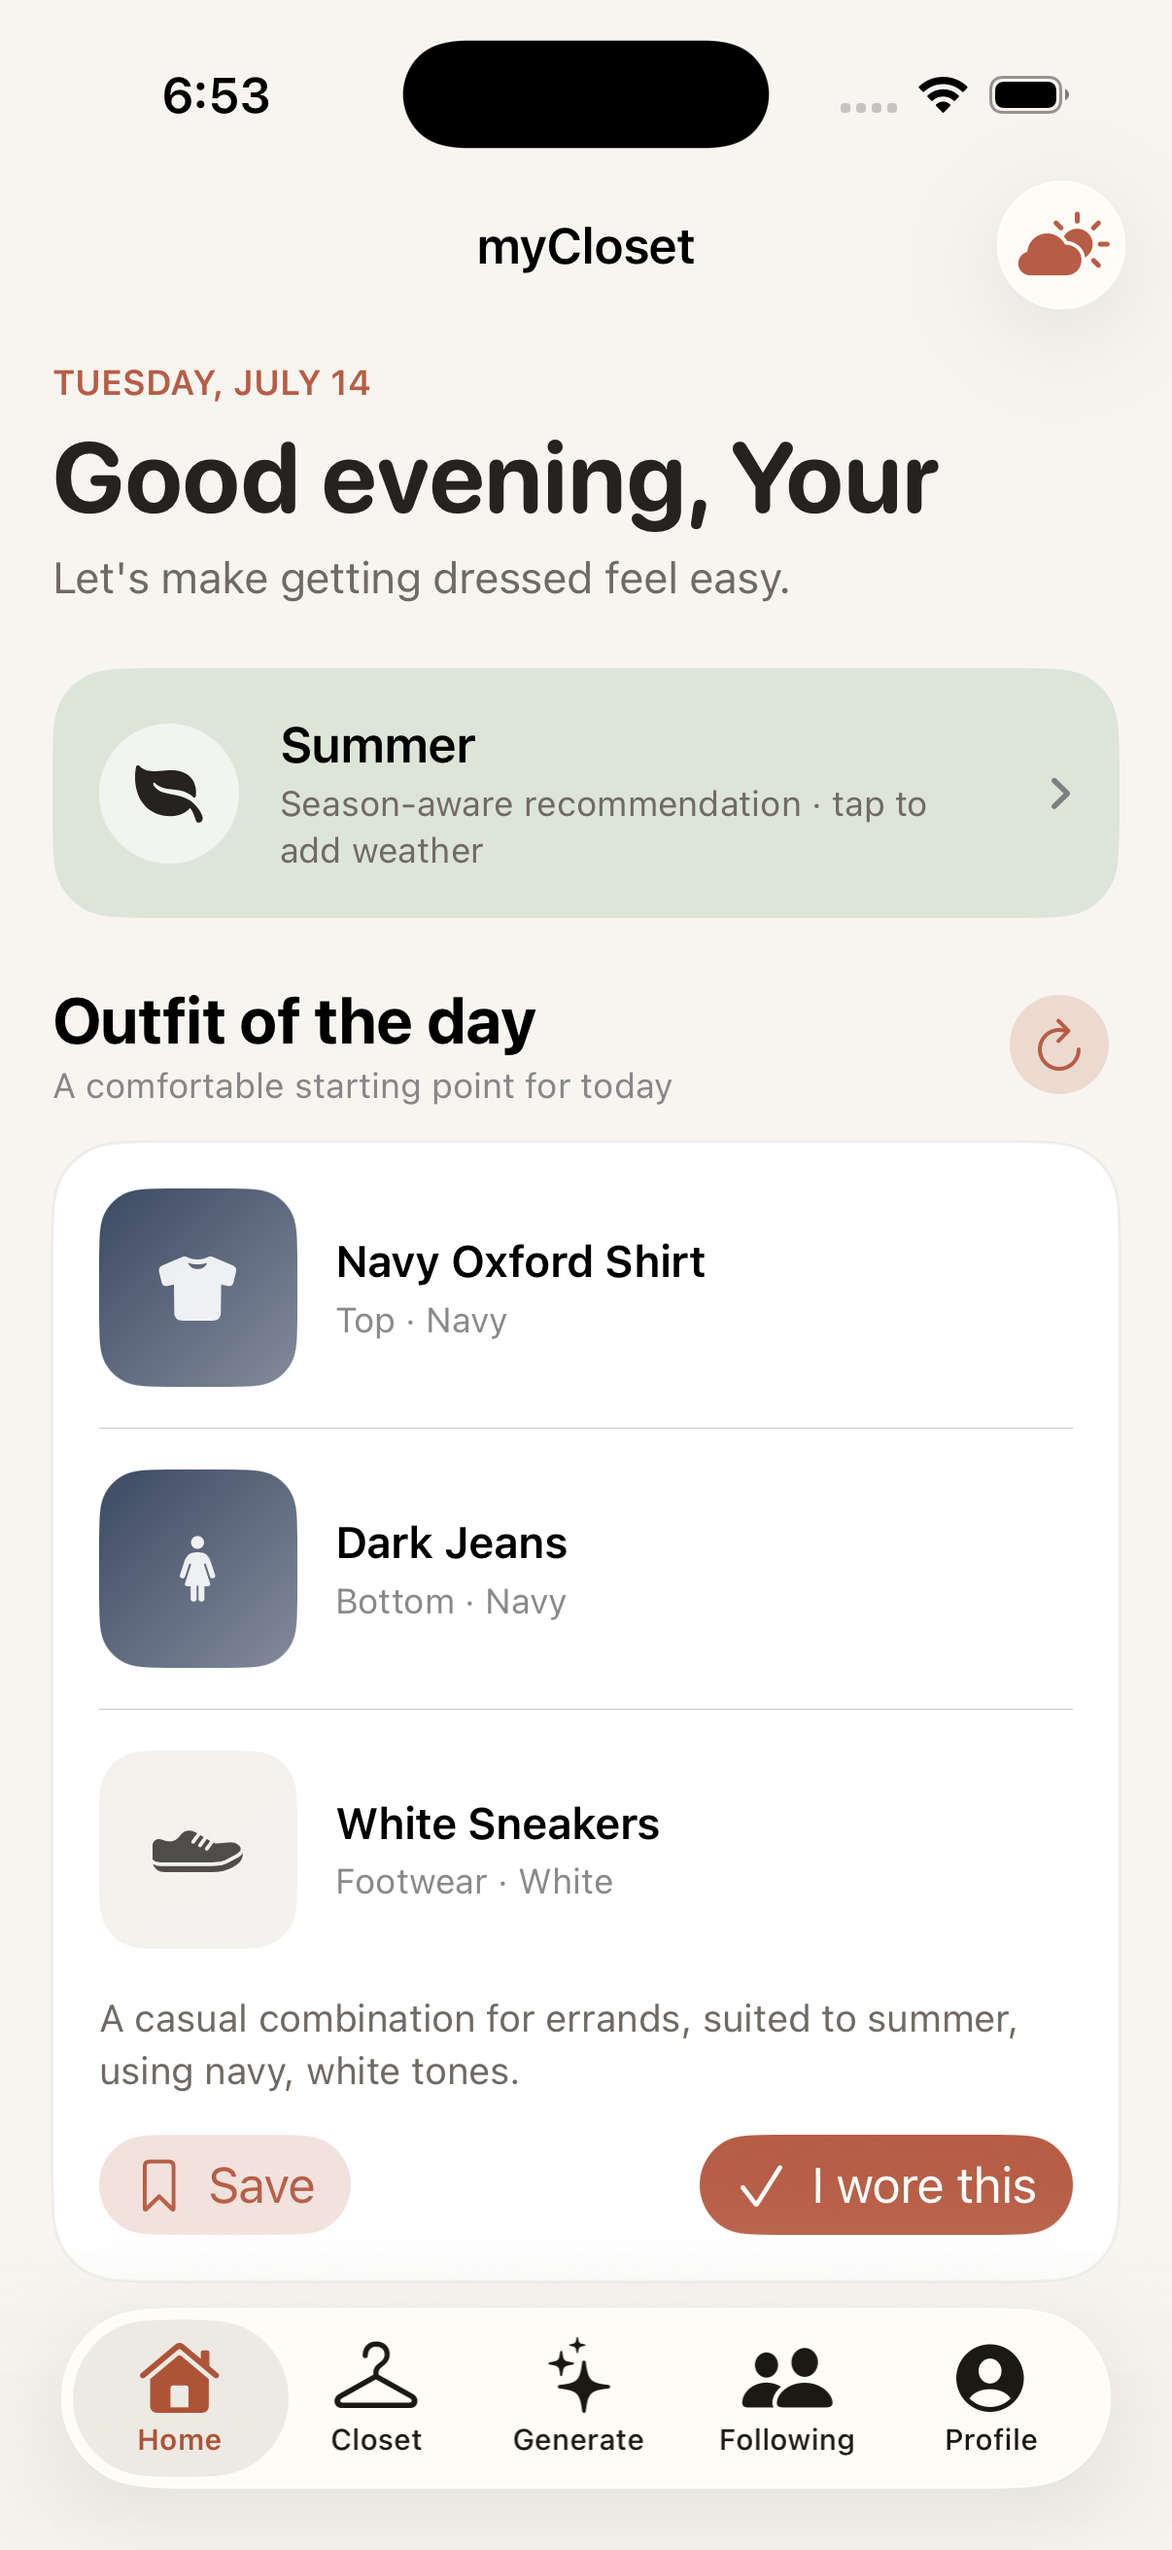
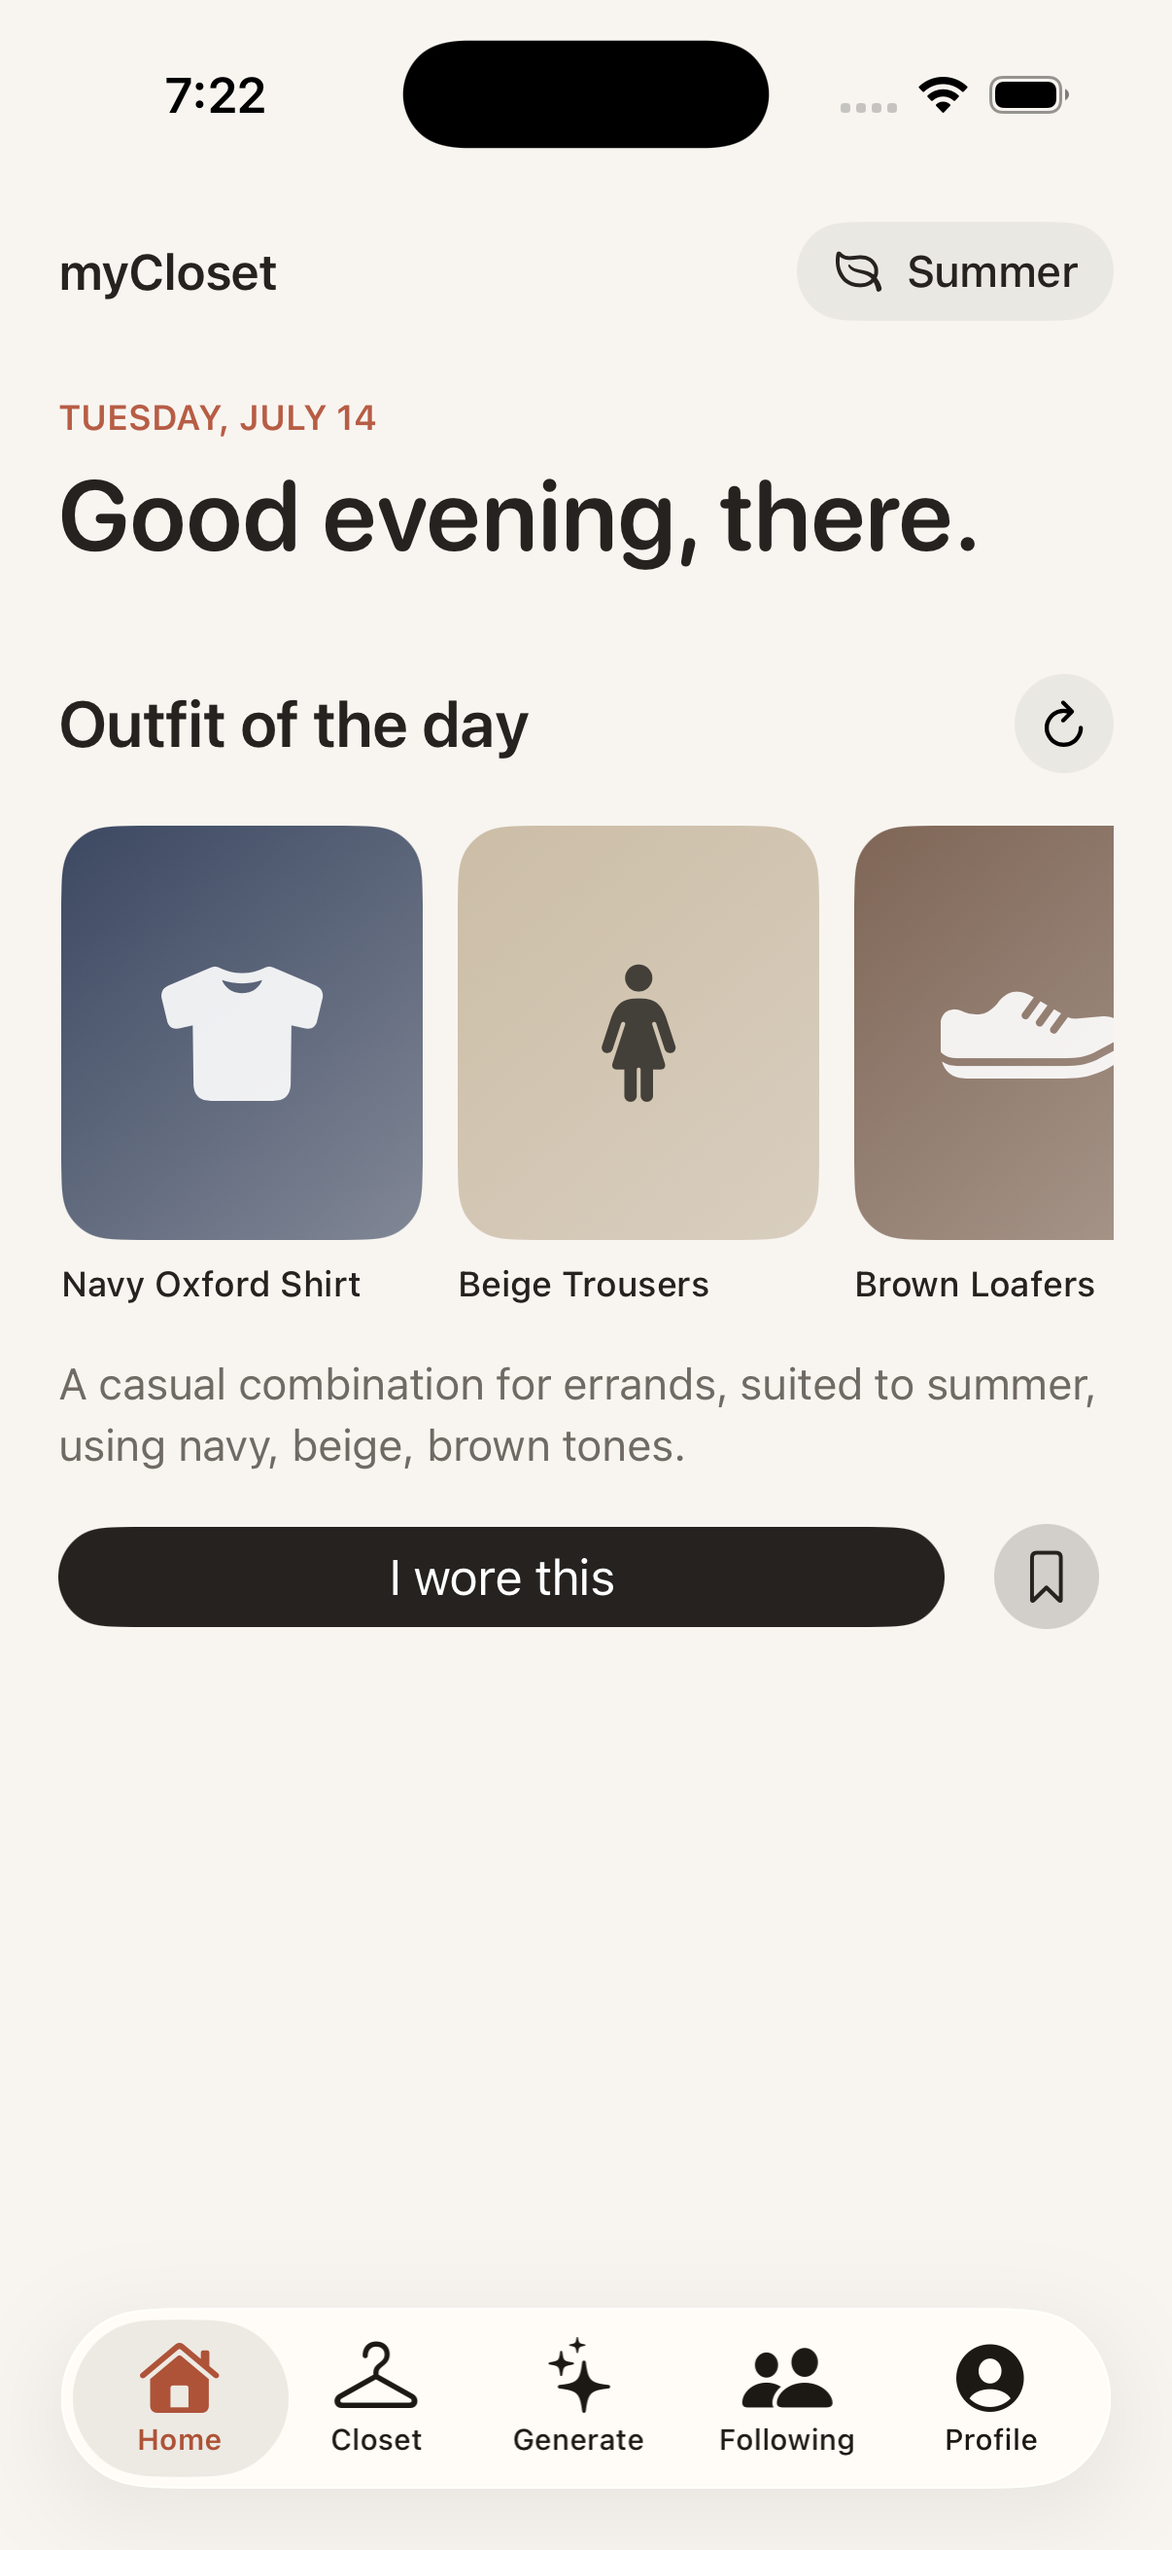
Simplify the Home experience

diff --git a/myCloset/HomeView.swift b/myCloset/HomeView.swift
@@ -8,28 +8,17 @@ struct HomeView: View {
 
     var body: some View {
         NavigationStack {
-            ScrollView(.vertical, showsIndicators: true) {
-                VStack(alignment: .leading, spacing: 22) {
-                    greeting
-                    weatherCard
+            ScrollView(.vertical, showsIndicators: false) {
+                VStack(alignment: .leading, spacing: 34) {
+                    header
                     dailySection
                 }
-                .padding(.horizontal, 18)
-                .padding(.bottom, 28)
+                .padding(.horizontal, 20)
+                .padding(.top, 14)
+                .padding(.bottom, 32)
             }
             .background(ClosetTheme.canvas.ignoresSafeArea())
-            .navigationTitle("myCloset")
-            .navigationBarTitleDisplayMode(.inline)
-            .toolbar {
-                ToolbarItem(placement: .topBarTrailing) {
-                    Button {
-                        showingWeather = true
-                    } label: {
-                        Image(systemName: "cloud.sun.fill")
-                    }
-                    .accessibilityLabel("Weather settings")
-                }
-            }
+            .toolbar(.hidden, for: .navigationBar)
             .sheet(isPresented: $showingWeather) {
                 WeatherSettingsView()
                     .presentationDetents([.medium, .large])
@@ -58,118 +47,144 @@ struct HomeView: View {
         }
     }
 
-    private var greeting: some View {
-        VStack(alignment: .leading, spacing: 5) {
-            Text(Date.now.formatted(.dateTime.weekday(.wide).month(.wide).day()))
-                .font(.caption.weight(.semibold))
-                .foregroundStyle(ClosetTheme.accent)
-                .textCase(.uppercase)
-            Text("Good \(dayPart), \(firstName)")
-                .font(.system(.largeTitle, design: .rounded, weight: .bold))
-                .foregroundStyle(ClosetTheme.ink)
-            Text("Let's make getting dressed feel easy.")
-                .font(.subheadline)
-                .foregroundStyle(ClosetTheme.secondaryInk)
-        }
-        .padding(.top, 8)
-    }
-
-    private var weatherCard: some View {
-        Button {
-            showingWeather = true
-        } label: {
-            HStack(spacing: 14) {
-                Image(systemName: weather.context.source == .seasonOnly ? "leaf.fill" : "cloud.sun.fill")
-                    .font(.title2)
+    private var header: some View {
+        VStack(alignment: .leading, spacing: 26) {
+            HStack {
+                Text("myCloset")
+                    .font(.headline.weight(.semibold))
                     .foregroundStyle(ClosetTheme.ink)
-                    .frame(width: 48, height: 48)
-                    .background(.white.opacity(0.58), in: Circle())
-                VStack(alignment: .leading, spacing: 3) {
-                    Text(weather.context.displayTemperature ?? weather.context.season.title)
-                        .font(.headline)
-                    Text(weatherSubtitle)
-                        .font(.caption)
-                        .foregroundStyle(ClosetTheme.secondaryInk)
-                }
                 Spacer()
-                Image(systemName: "chevron.right")
-                    .font(.caption.weight(.bold))
-                    .foregroundStyle(.secondary)
+                Button {
+                    showingWeather = true
+                } label: {
+                    HStack(spacing: 7) {
+                        Image(systemName: weather.context.source == .seasonOnly ? "leaf" : "cloud.sun")
+                        Text(weather.context.displayTemperature ?? weather.context.season.title)
+                    }
+                    .font(.subheadline.weight(.medium))
+                    .foregroundStyle(ClosetTheme.ink)
+                    .padding(.horizontal, 12)
+                    .padding(.vertical, 8)
+                    .background(Color.primary.opacity(0.055), in: Capsule())
+                }
+                .buttonStyle(.plain)
+                .accessibilityLabel("Weather settings, \(weatherSubtitle)")
             }
-            .padding(16)
-            .background(ClosetTheme.sage, in: RoundedRectangle(cornerRadius: 22, style: .continuous))
+
+            VStack(alignment: .leading, spacing: 6) {
+                Text(Date.now.formatted(.dateTime.weekday(.wide).month(.wide).day()))
+                    .font(.caption.weight(.semibold))
+                    .foregroundStyle(ClosetTheme.accent)
+                    .textCase(.uppercase)
+                Text("Good \(dayPart), \(firstName).")
+                    .font(.system(.largeTitle, design: .rounded, weight: .semibold))
+                    .foregroundStyle(ClosetTheme.ink)
+            }
         }
-        .buttonStyle(.plain)
     }
 
     @ViewBuilder
     private var dailySection: some View {
-        VStack(alignment: .leading, spacing: 12) {
+        VStack(alignment: .leading, spacing: 18) {
             HStack {
-                VStack(alignment: .leading, spacing: 2) {
-                    Text("Outfit of the day")
-                        .font(.title2.weight(.bold))
-                    Text("A comfortable starting point for today")
-                        .font(.caption)
-                        .foregroundStyle(.secondary)
-                }
+                Text("Outfit of the day")
+                    .font(.title2.weight(.semibold))
+                    .foregroundStyle(ClosetTheme.ink)
                 Spacer()
                 if store.dailyOutfit != nil {
                     Button {
                         store.refreshDaily(weather: weather.context, force: true)
                     } label: {
                         Image(systemName: "arrow.clockwise")
+                            .font(.subheadline.weight(.medium))
+                            .frame(width: 34, height: 34)
+                            .background(Color.primary.opacity(0.055), in: Circle())
                     }
-                    .buttonStyle(.bordered)
-                    .buttonBorderShape(.circle)
+                    .buttonStyle(.plain)
                     .accessibilityLabel("Refresh daily outfit")
                 }
             }
 
             if let outfit = store.dailyOutfit {
-                CardSurface {
-                    VStack(alignment: .leading, spacing: 14) {
-                        ForEach(store.resolve(outfit)) { item in
-                            OutfitItemRow(item: item)
-                            if item.id != store.resolve(outfit).last?.id { Divider() }
-                        }
-                        Text(outfit.explanation)
-                            .font(.footnote)
-                            .foregroundStyle(ClosetTheme.secondaryInk)
-                            .padding(.top, 2)
-                        HStack {
-                            Button {
-                                store.save(outfit)
-                                showConfirmation("Saved for later")
-                            } label: {
-                                Label("Save", systemImage: "bookmark")
-                            }
-                            .buttonStyle(.bordered)
-                            Spacer()
-                            Button {
-                                store.markWorn(outfit)
-                                showConfirmation("Added to worn outfits")
-                            } label: {
-                                Label("I wore this", systemImage: "checkmark")
-                            }
-                            .buttonStyle(.borderedProminent)
+                let items = store.resolve(outfit)
+                ScrollView(.horizontal, showsIndicators: false) {
+                    LazyHStack(alignment: .top, spacing: 12) {
+                        ForEach(items) { item in
+                            DailyOutfitPiece(item: item)
                         }
                     }
+                    .padding(.horizontal, 1)
                 }
+                .contentMargins(.horizontal, 0, for: .scrollContent)
+
+                Text(outfit.explanation)
+                    .font(.subheadline)
+                    .foregroundStyle(ClosetTheme.secondaryInk)
+                    .lineSpacing(3)
+                    .fixedSize(horizontal: false, vertical: true)
+
+                HStack(spacing: 12) {
+                    Button {
+                        store.markWorn(outfit)
+                        showConfirmation("Added to worn outfits")
+                    } label: {
+                        Text("I wore this")
+                            .frame(maxWidth: .infinity)
+                    }
+                    .buttonStyle(.borderedProminent)
+                    .buttonBorderShape(.capsule)
+
+                    Button {
+                        store.save(outfit)
+                        showConfirmation("Saved for later")
+                    } label: {
+                        Image(systemName: "bookmark")
+                            .frame(width: 22, height: 22)
+                    }
+                    .buttonStyle(.bordered)
+                    .buttonBorderShape(.circle)
+                    .accessibilityLabel("Save outfit for later")
+                }
+                .tint(ClosetTheme.ink)
             } else {
-                EmptyState(
-                    icon: "tshirt",
-                    title: "Your outfit is waiting",
-                    message: store.dailyError?.localizedDescription ?? "Add enough pieces for a top, bottom, and shoes.",
-                    actionTitle: store.items.isEmpty ? "Load sample closet" : nil,
-                    action: store.items.isEmpty ? { store.loadSamples(); store.refreshDaily(weather: weather.context, force: true) } : nil
-                )
+                minimalEmptyState
             }
         }
     }
 
+    private var minimalEmptyState: some View {
+        VStack(alignment: .leading, spacing: 12) {
+            Image(systemName: "tshirt")
+                .font(.title2)
+                .foregroundStyle(ClosetTheme.accent)
+            Text("Your outfit is waiting")
+                .font(.headline)
+                .foregroundStyle(ClosetTheme.ink)
+            Text(store.dailyError?.localizedDescription ?? "Add enough pieces for a top, bottom, and shoes.")
+                .font(.subheadline)
+                .foregroundStyle(ClosetTheme.secondaryInk)
+                .fixedSize(horizontal: false, vertical: true)
+            if store.items.isEmpty {
+                Button("Load sample closet") {
+                    store.loadSamples()
+                    store.refreshDaily(weather: weather.context, force: true)
+                }
+                .buttonStyle(.borderedProminent)
+                .buttonBorderShape(.capsule)
+                .tint(ClosetTheme.ink)
+                .padding(.top, 4)
+            }
+        }
+        .padding(.top, 4)
+    }
+
     private var firstName: String {
-        store.profile.displayName.split(separator: " ").first.map(String.init) ?? "there"
+        let displayName = store.profile.displayName.trimmingCharacters(in: .whitespacesAndNewlines)
+        guard !displayName.isEmpty,
+              displayName.localizedCaseInsensitiveCompare("Your name") != .orderedSame else {
+            return "there"
+        }
+        return displayName.split(separator: " ").first.map(String.init) ?? "there"
     }
 
     private var dayPart: String {
@@ -194,6 +209,30 @@ struct HomeView: View {
             try? await Task.sleep(for: .seconds(2))
             withAnimation { confirmation = nil }
         }
+    }
+}
+
+private struct DailyOutfitPiece: View {
+    let item: ClosetItem
+
+    var body: some View {
+        VStack(alignment: .leading, spacing: 8) {
+            ItemArtwork(
+                photoData: item.photoData,
+                color: item.dominantColor,
+                category: item.category,
+                height: 142
+            )
+            .frame(width: 124)
+            .clipShape(RoundedRectangle(cornerRadius: 18, style: .continuous))
+
+            Text(item.name)
+                .font(.caption.weight(.medium))
+                .foregroundStyle(ClosetTheme.ink)
+                .lineLimit(1)
+                .frame(width: 124, alignment: .leading)
+        }
+        .accessibilityElement(children: .combine)
     }
 }
 

diff --git a/myClosetUITests/MyClosetUITests.swift b/myClosetUITests/MyClosetUITests.swift
@@ -17,8 +17,8 @@ final class MyClosetUITests: XCTestCase {
         XCTAssertTrue(loadButton.waitForExistence(timeout: 5))
         loadButton.tap()
 
-        XCTAssertTrue(app.staticTexts["Navy Oxford Shirt"].waitForExistence(timeout: 5))
-        XCTAssertTrue(app.staticTexts["Outfit of the day"].exists)
+        XCTAssertTrue(app.staticTexts["Outfit of the day"].waitForExistence(timeout: 5))
+        XCTAssertTrue(app.buttons["I wore this"].exists)
     }
 
     func testCoreClosetAndGeneratorJourney() {

diff --git a/PROTOTYPE_STATUS.md b/PROTOTYPE_STATUS.md
@@ -20,7 +20,7 @@ This slice provides a genuinely usable local wardrobe and outfit-generation loop
 | Photo import | ITEM-006, ITEM-009–ITEM-011 | PhotosPicker import, image resizing, and editable dominant/accent color suggestions |
 | Capture guidance preview | ITEM-004–ITEM-005 | Category-aware framing outline and guidance text in the editor |
 | Weather fallback | WEA-001–WEA-011 | Current foreground location, manually entered city, or date-derived season |
-| Outfit of the Day | HOME-001–HOME-009 | Local daily recommendation, explanation, refresh, save, and mark worn |
+| Outfit of the Day | HOME-001–HOME-009 | Minimal visual daily recommendation, compact weather context, explanation, refresh, save, and mark worn |
 | Occasion/formality input | GEN-001–GEN-007 | All specified presets and a six-level formality control |
 | Local recommendation engine | COMP, REC | Available items only, valid base structure, season/formality filtering, color scoring, favorites, variety, and explanations |
 | Locking and rerolling | COMP-005–COMP-016 | Pre-lock pieces, lock generated items, reroll one piece, or reroll all unlocked pieces |

diff --git a/README.md b/README.md
@@ -26,7 +26,7 @@ The long-term product is designed around three principles:
 
 | Area | Working in Phase 0 |
 |---|---|
-| Home | Season- or weather-aware Outfit of the Day, explanation, refresh, save, and worn confirmation |
+| Home | Minimal, visual Outfit of the Day with compact weather context, explanation, refresh, save, and worn confirmation |
 | Closet | Local creation, editing, search, category filtering, favorites, availability, archive, and deletion |
 | Item intelligence | Photo import, resizing, sampled dominant/accent color suggestions, manual color confirmation, season and multi-formality metadata |
 | Generator | Occasion presets, six formality levels, locked pieces, complete outfit generation, one-piece reroll, unlocked reroll, and explanations |

diff --git a/AGENTS.md b/AGENTS.md
@@ -45,7 +45,7 @@ The prototype is usable locally. It is not an App Store release candidate and ha
 
 The five tabs are Home, Closet, Generate, Following, and Profile.
 
-- Home: season/weather-aware Outfit of the Day, explanation, refresh, save, and mark-worn actions.
+- Home: minimalist visual Outfit of the Day, compact season/weather context, explanation, refresh, save, and mark-worn actions.
 - Closet: local create/edit/search/filter/favorite/archive/delete and availability management.
 - Item intelligence: Photos import, fixed 1,200-pixel resizing, palette-based dominant/accent suggestions, and editable metadata.
 - Generator: occasion presets, six formality levels, locks, full/unlocked/single-piece rerolls, and explanations.

diff --git a/CHANGELOG.md b/CHANGELOG.md
@@ -12,6 +12,11 @@ All notable changes to myCloset are recorded here. The project follows a lightwe
 
 - Added a root `AGENTS.md` durable Codex handoff covering current product boundaries, architecture, commands, testing expectations, documentation synchronization, and phase priorities.
 
+### Changed
+
+- Reworked Home into a minimal, whitespace-led experience with compact weather context, a horizontal visual outfit strip, one primary worn action, and a secondary bookmark action.
+- Replaced the placeholder-name greeting with a natural “there” fallback until the user edits their profile.
+
 ### Planned
 
 - Phase 1 guided camera capture, foreground isolation, crop correction, and improved color confidence.
